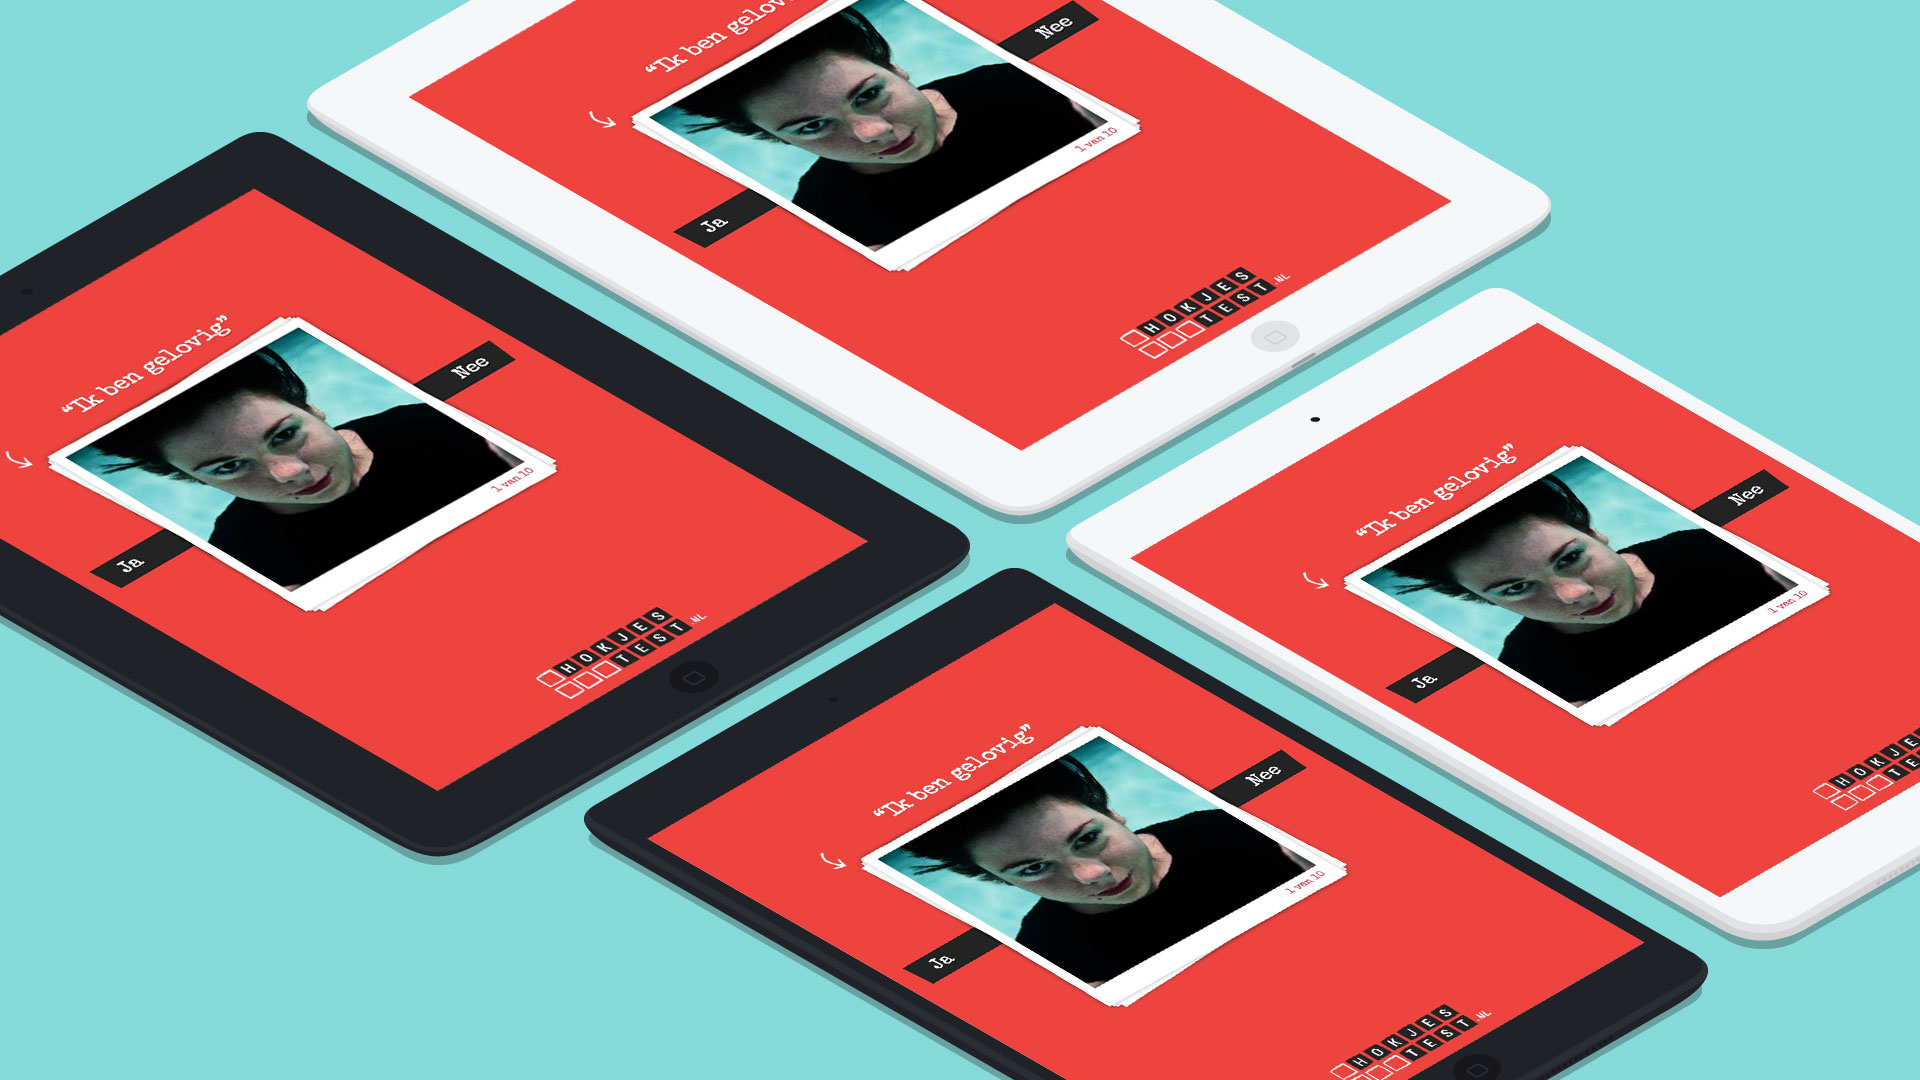
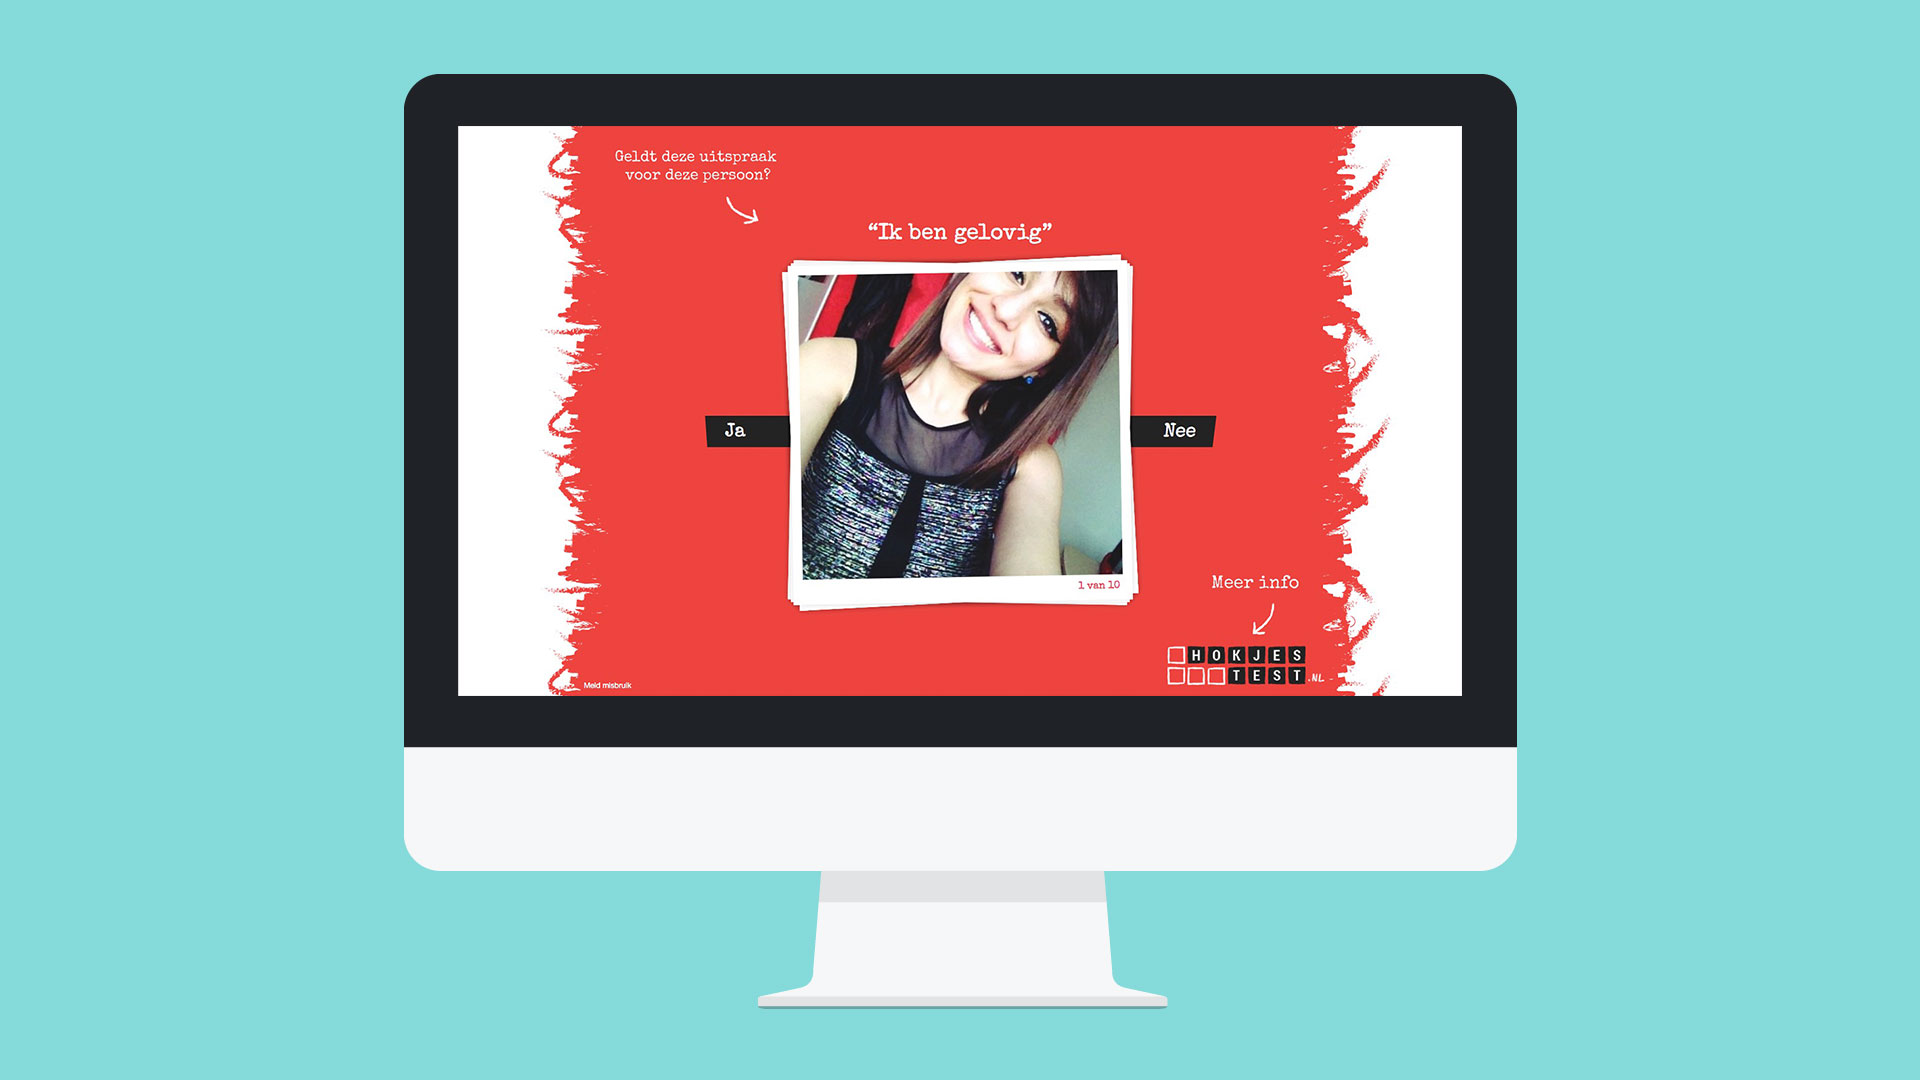
updated some projects

diff --git a/_site/work/viteau/index.html b/_site/work/viteau/index.html
@@ -27,7 +27,7 @@
 </head>
 
 
-<body class="project /Users/mvaneijgen/Github/mvaneijgen.github.io/_work/viteau.md">
+<body class="project _work/viteau.md">
   <div id="perspective" class="perspective effect-moveleft">
     <header class="site-header">
 <ul class="nav-main">
@@ -95,7 +95,7 @@
 
 <ul class="nav-social">
   <li>
-    <a href="#">
+    <a href="//github.com/mvaneijgen"/>
       <svg width="100%" height="100%" viewBox="0 0 150 150" class="social">
             <rect x="20" y="20" width="110" height="110"/>
             <g transform="matrix(0.583023,0,0,0.583023,45.8404,50.3265)">
@@ -106,7 +106,7 @@
     </a>
   </li>
   <li>
-    <a href="#">
+    <a href="//twitter.com/mvaneijgen">
       <svg width="100%" height="100%" viewBox="0 0 150 150" class="social">
             <rect x="20" y="20" width="110" height="110"/>
             <g transform="matrix(0.629653,0,0,0.629653,43.517,49.4317)">
@@ -117,18 +117,16 @@
     </a>
   </li>
   <li>
-    <a href="#">
+    <a href="//codepen.io/mvaneijgen">
       <svg width="100%" height="100%" viewBox="0 0 150 150" class="social">
-            <rect x="20" y="20" width="110" height="110"/>
-            <g transform="matrix(0.551496,0,0,0.551496,47.3403,52.0638)">
-                <path d="M22.88,24.863L22.88,89.363L1.405,89.363L1.405,24.863L22.88,24.863ZM24.248,4.943C24.292,8.113 23.198,10.758 20.961,12.883C18.726,15.007 15.787,16.071 12.144,16.073L12.014,16.073C8.458,16.073 5.594,15.01 3.422,12.883C1.25,10.756 0.166,8.11 0.17,4.943C0.17,1.733 1.288,-0.925 3.523,-3.03C5.758,-5.135 8.678,-6.187 12.28,-6.187C15.882,-6.187 18.767,-5.135 20.936,-3.03C23.105,-0.925 24.211,1.733 24.256,4.943L24.251,4.943L24.248,4.943ZM100.138,52.393L100.138,89.363L78.725,89.363L78.725,54.866C78.725,50.309 77.845,46.74 76.088,44.161C74.331,41.582 71.585,40.291 67.853,40.287C65.12,40.287 62.833,41.035 60.988,42.532C59.144,44.029 57.768,45.884 56.856,48.097C56.378,49.399 56.14,51.157 56.14,53.371L56.14,89.365L34.723,89.365C34.809,72.053 34.853,58.017 34.853,47.255C34.853,36.493 34.83,30.073 34.785,27.99L34.718,24.867L56.132,24.867L56.132,34.239L56.002,34.239C56.872,32.849 57.762,31.635 58.672,30.593C59.582,29.551 60.81,28.423 62.352,27.211C63.892,25.997 65.779,25.053 68.012,24.378C70.245,23.702 72.729,23.366 75.464,23.368C82.884,23.368 88.851,25.831 93.364,30.754C97.877,35.677 100.132,42.891 100.132,52.394L100.137,52.391L100.138,52.393Z"/>
-            </g>
+  <rect x="20" y="20" width="110" height="110"/>
+  <path d="M113.281868,62.3134786 C113.264027,62.2189175 113.246185,62.1261406 113.222991,62.0351478 C113.208717,61.9798385 113.187307,61.9280975 113.17125,61.8727882 C113.144487,61.7907163 113.119509,61.7104285 113.087394,61.6301408 C113.062415,61.5748315 113.039221,61.5213063 113.012458,61.4695654 C112.974991,61.392846 112.939307,61.3196949 112.900056,61.2465439 C112.86794,61.1965871 112.83761,61.1448461 112.80371,61.0931051 C112.76089,61.0235224 112.712718,60.9592922 112.664545,60.8932779 C112.627077,60.8468894 112.58961,60.7969326 112.550358,60.7505442 C112.498617,60.6880981 112.441523,60.6310046 112.386214,60.5703428 C112.34161,60.5257385 112.29879,60.4829184 112.252401,60.4400983 C112.193524,60.384789 112.129293,60.333048 112.065063,60.281307 C112.016891,60.2438394 111.966934,60.2045876 111.915193,60.1689042 C111.897351,60.1546308 111.879509,60.1385733 111.859883,60.1296524 L76.5154415,36.5643122 C75.39855,35.8203126 73.9462342,35.8203126 72.8311269,36.5643122 L37.4831166,60.1242999 C37.4634907,60.1385733 37.4474331,60.1546308 37.4295914,60.1653358 C37.3778505,60.2010193 37.3278936,60.240271 37.2779368,60.2795228 C37.2137067,60.3276955 37.1512606,60.3812206 37.0905988,60.4365299 C37.0459945,60.4775659 37.0013902,60.520386 36.9585701,60.5649903 C36.9014766,60.623868 36.8479514,60.6827456 36.7926421,60.7469758 C36.7533903,60.7915801 36.7159227,60.8415369 36.6802393,60.8897096 C36.6302825,60.9557239 36.583894,61.0217383 36.5392897,61.091321 C36.5071746,61.1430619 36.4750596,61.1930187 36.4447286,61.2447597 C36.4036927,61.3179108 36.3662251,61.3910618 36.3323258,61.4642128 C36.3055632,61.5195222 36.282369,61.5730473 36.2573906,61.6265725 C36.2252755,61.705076 36.1985129,61.7871479 36.1717504,61.8692198 C36.1539086,61.9245292 36.1342828,61.9780543 36.1217936,62.0315795 C36.0968152,62.1243564 36.0807576,62.2171333 36.0629159,62.3099102 C36.053995,62.3562987 36.04329,62.4062555 36.0361533,62.452644 C36.0165274,62.5971619 36.0058224,62.7398956 36.0058224,62.8879819 L36.0058224,86.4515379 C36.0058224,86.5960558 36.0165274,86.7423579 36.0361533,86.8850916 C36.04329,86.9314801 36.053995,86.9814369 36.0629159,87.0278254 C36.0807576,87.1223865 36.0985993,87.2133792 36.1217936,87.304372 C36.1360669,87.3596813 36.1556928,87.4114223 36.1717504,87.4667316 C36.1985129,87.5505877 36.2252755,87.6308754 36.2573906,87.7111631 C36.282369,87.7664725 36.3055632,87.8199976 36.3323258,87.8735228 C36.3680093,87.948458 36.4036927,88.021609 36.4447286,88.0947601 C36.4750596,88.146501 36.5071746,88.198242 36.5392897,88.2481988 C36.583894,88.3177815 36.6302825,88.3837959 36.6802393,88.4498102 C36.7177069,88.4979829 36.7533903,88.5461555 36.7926421,88.592544 C36.8461673,88.65499 36.9014766,88.7120835 36.9585701,88.7745295 C37.0013902,88.8191338 37.0459945,88.8619539 37.0905988,88.9029899 C37.1512606,88.9582992 37.2137067,89.0100402 37.2779368,89.059997 C37.3278936,89.0974646 37.3778505,89.1385005 37.4295914,89.174184 C37.4492173,89.1884573 37.4652749,89.2045149 37.4831166,89.2134357 L72.8293427,112.776992 C73.3860043,113.149884 74.0283061,113.335437 74.6706079,113.335437 C75.3129097,113.335437 75.9569957,113.149884 76.5136573,112.776992 L111.858099,89.2134357 C111.879509,89.2009465 111.895567,89.1831048 111.913409,89.174184 C111.96515,89.1367164 112.015106,89.0974646 112.063279,89.059997 C112.127509,89.0100402 112.191739,88.9582992 112.250617,88.9029899 C112.297005,88.8619539 112.339826,88.8191338 112.38443,88.7745295 C112.439739,88.7156518 112.495049,88.6567742 112.548574,88.592544 C112.587825,88.5461555 112.627077,88.4979829 112.662761,88.4498102 C112.710933,88.3837959 112.759106,88.3177815 112.801926,88.2481988 C112.835825,88.198242 112.866156,88.146501 112.898271,88.0947601 C112.937523,88.021609 112.974991,87.948458 113.010674,87.8735228 C113.037437,87.8199976 113.060631,87.7664725 113.085609,87.7111631 C113.117724,87.6308754 113.142703,87.5505877 113.169465,87.4667316 C113.187307,87.4114223 113.206933,87.3596813 113.221206,87.304372 C113.246185,87.2133792 113.262242,87.1206023 113.280084,87.0278254 C113.287221,86.9814369 113.29971,86.9314801 113.306847,86.8850916 C113.324688,86.7423579 113.337178,86.5960558 113.337178,86.4515379 L113.337178,62.8915502 C113.337178,62.743464 113.324688,62.6007302 113.306847,62.4562123 C113.301494,62.411608 113.289005,62.3616512 113.281868,62.3134786 L113.281868,62.3134786 Z M74.6706079,82.5334968 L62.9182687,74.6742203 L74.6706079,66.8131597 L86.4247313,74.6742203 L74.6706079,82.5334968 L74.6706079,82.5334968 Z M71.346696,61.03958 L56.9395093,70.6758915 L45.310278,62.8969027 L71.346696,45.538696 L71.346696,61.03958 L71.346696,61.03958 L71.346696,61.03958 Z M50.9643182,74.6742203 L42.6500779,80.2336994 L42.6500779,69.112957 L50.9643182,74.6742203 L50.9643182,74.6742203 Z M56.9395093,78.670765 L71.346696,88.3052923 L71.346696,103.806176 L45.310278,86.4479696 L56.9395093,78.670765 L56.9395093,78.670765 Z M77.9927357,88.3052923 L92.3999224,78.670765 L104.030938,86.4479696 L77.9927357,103.806176 L77.9927357,88.3052923 L77.9927357,88.3052923 Z M98.3786818,74.6742203 L106.692922,69.112957 L106.692922,80.2319153 L98.3786818,74.6742203 L98.3786818,74.6742203 Z M92.3999224,70.6741073 L77.9927357,61.03958 L77.9927357,45.538696 L104.030938,62.8969027 L92.3999224,70.6741073 L92.3999224,70.6741073 Z"></path>
 </svg>
 
     </a>
   </li>
   <li>
-    <a href="#">
+    <a href="//linkedin.com/in/mvaneijgen">
       <svg width="100%" height="100%" viewBox="0 0 150 150" class="social">
             <rect x="20" y="20" width="110" height="110"/>
             <g transform="matrix(0.551496,0,0,0.551496,47.3403,52.0638)">
@@ -184,12 +182,12 @@
     		Animazing  /  Een door Allo...
     	</a>
     	
-    	<a href="/work/corpus-de-anatomische-les/">
+    	<a href="/work/corpus-anatomische-les/">
         
     		CORPUS 'De Anatomische Les'...
     	</a>
     	
-    	<a href="/work/selfie-van-je-toekomst/">
+    	<a href="/work/corpus-kwf/">
         
     		Selfie van je toekomst  /  ...
     	</a>

diff --git a/_site/work/index.html b/_site/work/index.html
@@ -145,6 +145,16 @@
         <div class="row work">
 	
 	
+	<a href="/work/viteau/" class="thumb">
+		<img class="cover" src="/img/work/viteau-thumb.jpg" alt="Viteau | Bedrijfswebsite met CMS voor Viteau waterkoelers">
+		<img class="logo" src="/img/work/viteau-logo.png" alt="Heldergroen, Viteau">
+	</a>
+	
+	<a href="/work/verkenningen2/" class="thumb">
+		<img class="cover" src="/img/work/verkenningen-ii-thumb.jpg" alt="Verkenningen II | Online storytelling met interactieve routes">
+		<img class="logo" src="/img/work/verkenningen-ii-logo.png" alt="Explanation Design">
+	</a>
+	
 	<a href="/work/van-zwart-naar-groen/" class="thumb">
 		<img class="cover" src="/img/work/van-zwart-naar-groen-thumb.jpg" alt="Van Zwart naar Groen | Mobiele app over energieproductie in Nederland">
 		<img class="logo" src="/img/work/van-zwart-naar-groen-logo.png" alt="Studio Alloy">
@@ -153,6 +163,11 @@
 	<a href="/work/semintra/" class="thumb">
 		<img class="cover" src="/img/work/semintra-2d-animatie-thumb.jpg" alt="Semintra 2d animatie | 2D animatie over Semintra, een vloeibaar medicijn voor katten met chronisch nierfalen">
 		<img class="logo" src="/img/work/semintra-2d-animatie-logo.png" alt="Boehringer Ingelheim">
+	</a>
+	
+	<a href="/work/science-can-change-the-world/" class="thumb">
+		<img class="cover" src="/img/work/science-can-change-the-world-thumb.jpg" alt="Science can change the world | Campagne website ‘Science can change the world’">
+		<img class="logo" src="/img/work/science-can-change-the-world-logo.png" alt="Heldergroen, DSM">
 	</a>
 	
 	<a href="/work/rond-inholland/" class="thumb">
@@ -168,6 +183,11 @@
 	<a href="/work/ipad-animals/" class="thumb">
 		<img class="cover" src="/img/work/ipad-detailer-animal-health-thumb.jpg" alt="iPad Detailer Animal Health | iPad detailer serie voor interactieve productbrochures">
 		<img class="logo" src="/img/work/ipad-detailer-animal-health-logo.png" alt="Boehringer Ingelheim">
+	</a>
+	
+	<a href="/work/hokjestest/" class="thumb">
+		<img class="cover" src="/img/work/hokjestest-thumb.jpg" alt="Hokjestest | Online interactief spel over vooroordelen op basis van een selfie">
+		<img class="logo" src="/img/work/hokjestest-logo.png" alt="Critical Mass, Gemeente Amsterdam">
 	</a>
 	
 	<a href="/work/hero-of-humanity/" class="thumb">
@@ -192,7 +212,7 @@
 	
 	<a href="/work/expeditie-vriend-en-vijand/" class="thumb">
 		<img class="cover" src="/img/work/expeditie-vriend-en-vijand-thumb.jpg" alt="Expeditie Vriend en Vijand | Campagne website over de confrontatiecontainers van Critical Mass">
-		<img class="logo" src="/img/work/expeditie-vriend-en-vijand-logo.png" alt="Heldergroen, Critical Mass">
+		<img class="logo" src="/img/work/expeditie-vriend-en-vijand-logo.png" alt="Critical Mass">
 	</a>
 	
 	<a href="/work/diabetestrefpunt/" class="thumb">
@@ -202,7 +222,7 @@
 	
 	<a href="/work/de-grote-volksverhuizing/" class="thumb">
 		<img class="cover" src="/img/work/de-grote-volksverhuizing-thumb.jpg" alt="De Grote Volksverhuizing | Interactieve lespakketen basisonderwijs over de Atlantikwall">
-		<img class="logo" src="/img/work/de-grote-volksverhuizing-logo.png" alt="Explanation Design, PleinC">
+		<img class="logo" src="/img/work/de-grote-volksverhuizing-logo.png" alt="PleinC">
 	</a>
 	
 	<a href="/work/corpus-kwf/" class="thumb">

diff --git a/_site/index.html b/_site/index.html
@@ -161,7 +161,7 @@
 	
 	<a href="/work/de-grote-volksverhuizing/" class="thumb">
 		<img class="cover" src="/img/work/de-grote-volksverhuizing-thumb.jpg" alt="De Grote Volksverhuizing | Interactieve lespakketen basisonderwijs over de Atlantikwall">
-		<img class="logo" src="/img/work/de-grote-volksverhuizing-logo.png" alt="Explanation Design, PleinC">
+		<img class="logo" src="/img/work/de-grote-volksverhuizing-logo.png" alt="PleinC">
 	</a>
 	
 	<a href="/work/diabetestrefpunt/" class="thumb">
@@ -174,14 +174,14 @@
 		<img class="logo" src="/img/work/hero-of-humanity-logo.png" alt="Critical Mass, Rode Kruis">
 	</a>
 	
+	<a href="/work/hokjestest/" class="thumb">
+		<img class="cover" src="/img/work/hokjestest-thumb.jpg" alt="Hokjestest | Online interactief spel over vooroordelen op basis van een selfie">
+		<img class="logo" src="/img/work/hokjestest-logo.png" alt="Critical Mass, Gemeente Amsterdam">
+	</a>
+	
 	<a href="/work/ipad-animals/" class="thumb">
 		<img class="cover" src="/img/work/ipad-detailer-animal-health-thumb.jpg" alt="iPad Detailer Animal Health | iPad detailer serie voor interactieve productbrochures">
 		<img class="logo" src="/img/work/ipad-detailer-animal-health-logo.png" alt="Boehringer Ingelheim">
-	</a>
-	
-	<a href="/work/van-zwart-naar-groen/" class="thumb">
-		<img class="cover" src="/img/work/van-zwart-naar-groen-thumb.jpg" alt="Van Zwart naar Groen | Mobiele app over energieproductie in Nederland">
-		<img class="logo" src="/img/work/van-zwart-naar-groen-logo.png" alt="Studio Alloy">
 	</a>
 	
 </div>

diff --git a/_site/work/hokjestest/index.html b/_site/work/hokjestest/index.html
@@ -162,6 +162,16 @@
 </div>
 <div class="image-container">
   
+     <img src="/img/work/hokjestest-1.jpg">
+  
+     <img src="/img/work/hokjestest-2.jpg">
+  
+     <img src="/img/work/hokjestest-3.jpg">
+  
+     <img src="/img/work/hokjestest-4.jpg">
+  
+     <img src="/img/work/hokjestest-5.jpg">
+  
 </div>
 
         <footer class="site-footer column">

diff --git a/_site/work/semintra/index.html b/_site/work/semintra/index.html
@@ -161,6 +161,12 @@
 </div>
 <div class="image-container">
   
+     <img src="/img/work/semintra-2d-animatie-1.jpg">
+  
+     <img src="/img/work/semintra-2d-animatie-2.jpg">
+  
+     <img src="/img/work/semintra-2d-animatie-3.jpg">
+  
 </div>
 
         <footer class="site-footer column">

diff --git a/_work/de-grote-volksverhuizing.md b/_work/de-grote-volksverhuizing.md
@@ -1,11 +1,11 @@
 ---
 layout: project
-opdrachtgever: Explanation Design, PleinC
+opdrachtgever: PleinC
 title: De Grote Volksverhuizing
 date: 2015-05-30 16:22:48
 categories: lespakketten, website, interactief
 excerpt: Interactieve lespakketen basisonderwijs over de Atlantikwall
-featured: "true"
+featured: true
 website: //degrotevolksverhuizing.nl
 image: 11
 published: true

diff --git a/_work/semintra.md b/_work/semintra.md
@@ -6,8 +6,8 @@ date: 2015-05-30 16:22:48
 categories: infographic, 2d animatie
 excerpt: 2D animatie over Semintra, een vloeibaar medicijn voor katten met chronisch nierfalen
 featured: false
-url:
-image:
+webiste:
+image: 3
 published: true
 output: false
 order: 100

diff --git a/_work/hokjestest.md b/_work/hokjestest.md
@@ -7,8 +7,8 @@ categories: lespakketten, website, interactief
 excerpt: Online interactief spel over vooroordelen op basis van een selfie
 featured: "true"
 website: //hokjestest.nl
-image:
-published: false
+image: 5
+published: true
 order: 100
 ---
 

diff --git a/_work/science-can-change-the-world.md b/_work/science-can-change-the-world.md
@@ -8,7 +8,7 @@ excerpt: Campagne website ‘Science can change the world’
 featured: false
 website: //sciencecanchangetheworld.com
 image: 3
-published: false
+published: true
 vimeo: 147093536
 order: 100
 ---

diff --git a/_work/expeditie-vriend-en-vijand.md b/_work/expeditie-vriend-en-vijand.md
@@ -1,6 +1,6 @@
 ---
 layout: project
-opdrachtgever: Heldergroen, Critical Mass
+opdrachtgever: Critical Mass
 title: Expeditie Vriend en Vijand
 date: 2015-05-30 16:22:48
 categories: website, wordpress

diff --git a/_work/verkenningen2.md b/_work/verkenningen2.md
@@ -8,7 +8,7 @@ excerpt: Online storytelling met interactieve routes
 featured: false
 website: //verkenningen2.nl
 image: 5
-published: false
+published: true
 vimeo: 147101423
 order: 100
 ---

diff --git a/_work/viteau.md b/_work/viteau.md
@@ -8,7 +8,7 @@ excerpt: Bedrijfswebsite met CMS voor Viteau waterkoelers
 featured: false
 website: //viteau.nl
 image: 4
-published: false
+published: true
 vimeo: 147093537
 order: 100
 ---
